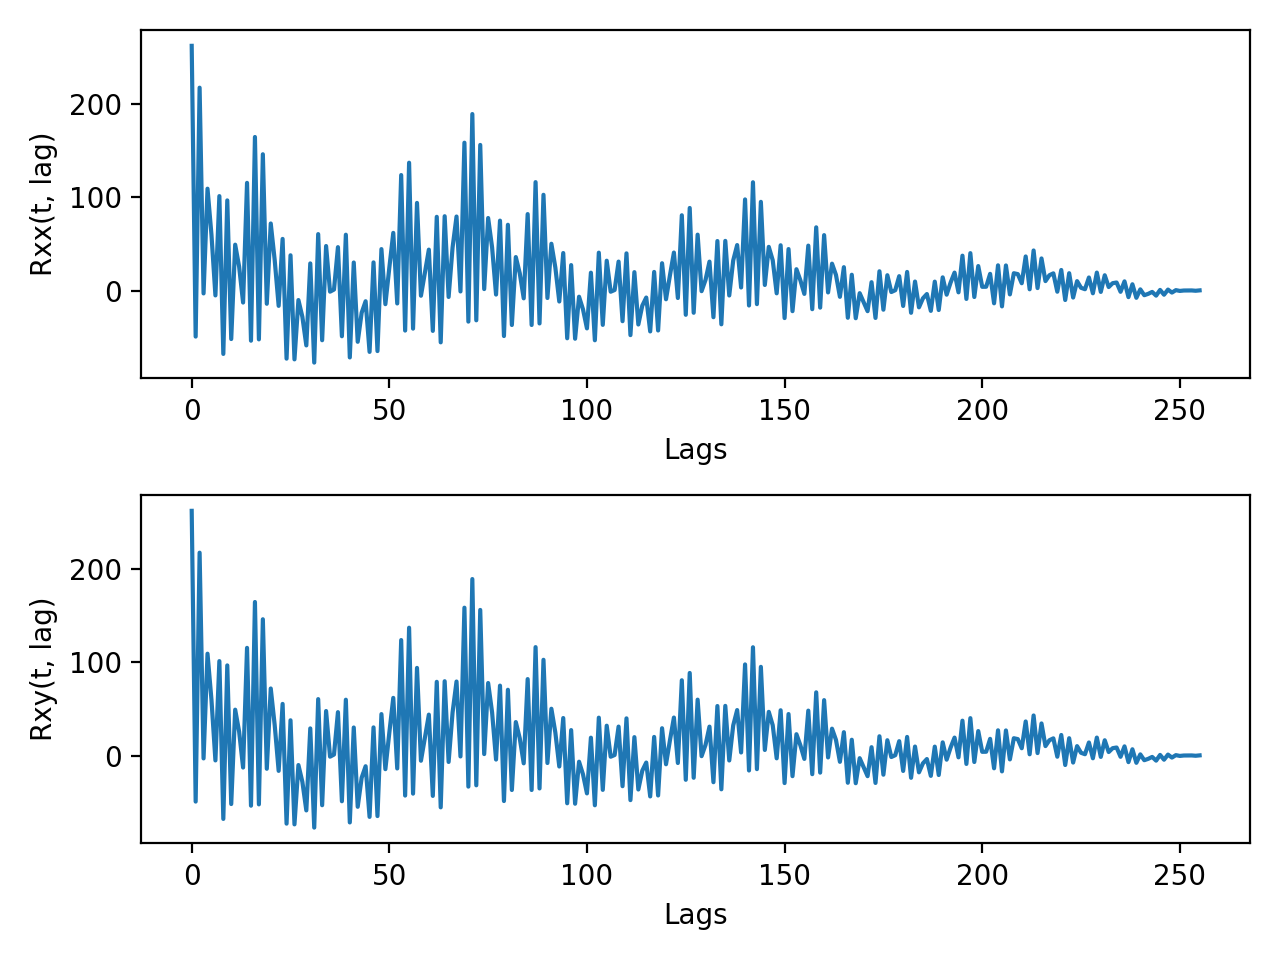
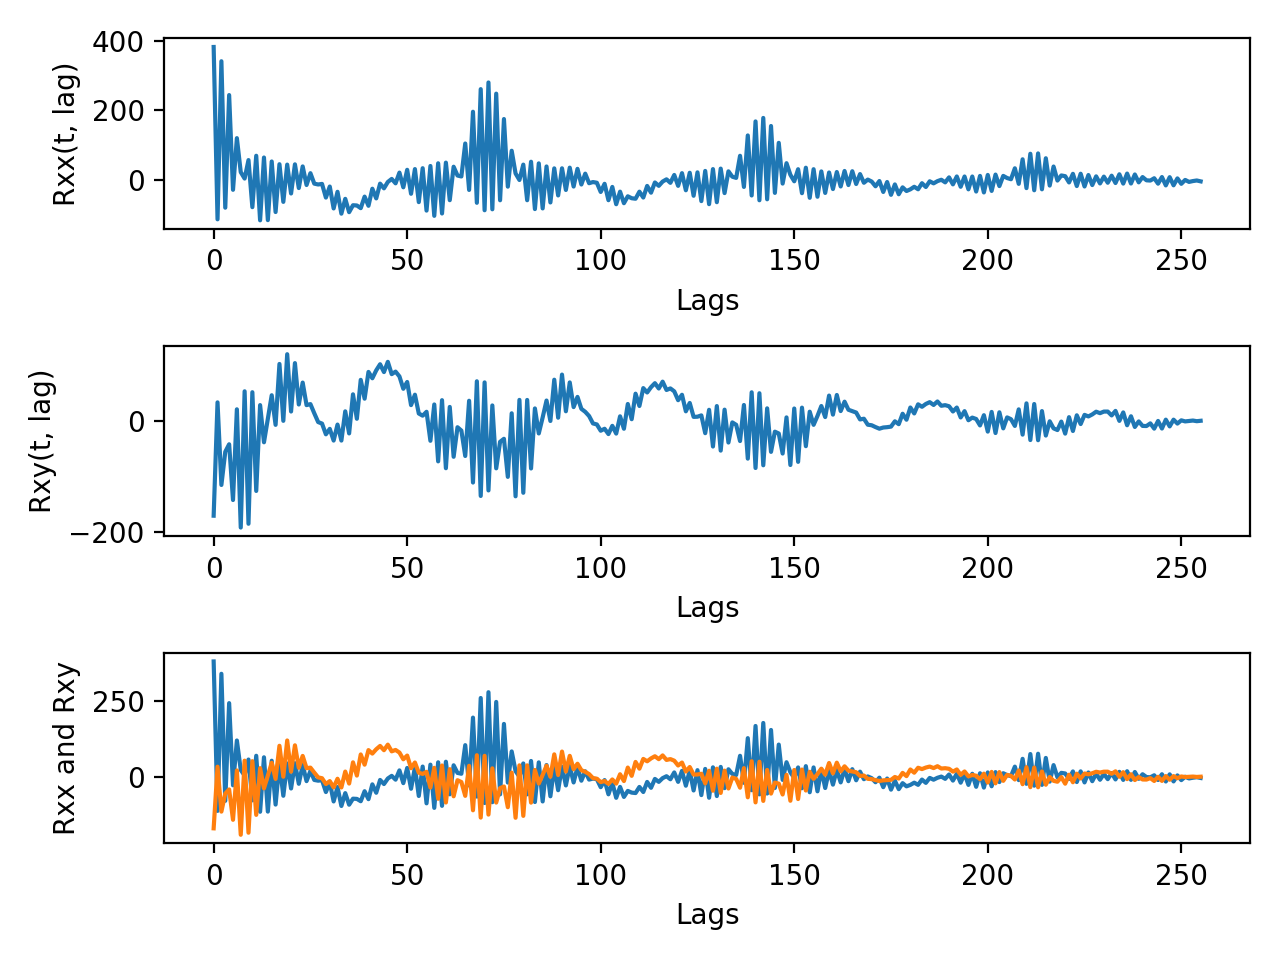
Fix typo in <autocorr> function

diff --git a/autocorrelation/main.py b/autocorrelation/main.py
@@ -8,7 +8,7 @@ from utilities.logged import logged
 def autocorr(x: np.ndarray, y: np.ndarray, mode: str = 'regular'):
     """The autocorrelation produces a symmetric signal,
      we only care about the "right half"""
-    corr = np.correlate(x, x, mode='full')[len(x) - 1:]
+    corr = np.correlate(x, y, mode='full')[len(x) - 1:]
     if mode == 'regular':
         return corr
     elif mode == 'normalized':
@@ -31,7 +31,8 @@ def show():
     Rxy = autocorr(sig_x, sig_y)
 
     import matplotlib.pyplot as plt
-    fig, axs = plt.subplots(2, 1)
+
+    fig, axs = plt.subplots(3, 1)
     axs[0].plot(LAGS, Rxx)
     axs[0].set_xlabel('Lags')
     axs[0].set_ylabel('Rxx(t, lag)')
@@ -39,6 +40,10 @@ def show():
     axs[1].plot(LAGS, Rxy)
     axs[1].set_xlabel('Lags')
     axs[1].set_ylabel('Rxy(t, lag)')
+
+    axs[2].plot(LAGS, Rxx, LAGS, Rxy)
+    axs[2].set_xlabel('Lags')
+    axs[2].set_ylabel('Rxx and Rxy')
 
     fig.tight_layout()
     plt.show()
